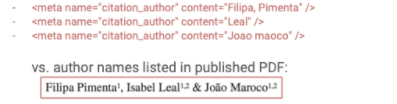
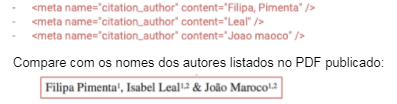
Alt text + image text translation.

Changed region(s): [[0.0302, 0.5481, 0.9673, 0.7212]]

diff --git a/google-scholar/pt/index.md b/google-scholar/pt/index.md
@@ -18,7 +18,7 @@ O Google Acadêmico é um conhecido motor de busca acadêmico que vasculha a int
 
 Não é necessário registrar seu periódico no Google Acadêmico. O Google Acadêmico eventualmente o encontrará e vasculhará automaticamente o site. Se você perceber que seu periódico não está sendo exibido no Google Acadêmico, pode ser que hajam alguns problemas que precisam ser resolvidos, confira abaixo os [problemas comuns de indexação do OJS e as correções sugeridas](#solução-de-problemas-para-gestores-e-editores-de-periódicos).
 
-![Google scholar search results](./assets/google-scholar-guide-search-results.png)
+![Resultados de busca do Google Acadêmico](./assets/google-scholar-guide-search-results.png)
 
 O Google Acadêmico depende de duas informações-chave para realizar a indexação:
 
@@ -79,7 +79,7 @@ A metatag da publicação deve coincidir com a data de publicação formal da ed
 
 ![Data de citação da fonte HTML](./assets/google-scholar-guide-citation-date.png)
 
-![A journal article with the publication year of 2019 circled](./assets/google-scholar-guide-date-galley.png)
+![Um artigo de periódico com o ano de publicação, 2019, circulado](./assets/google-scholar-guide-date-galley.png)
 
 ![Uma página de jornal OJS com a data de publicação circulada na página](./assets/google-scholar-guide-volume-issue.png)
 
@@ -125,7 +125,7 @@ Exemplo de lista de autores em script / idioma proveniente da instituição de o
 
 O idioma do resumo deve corresponder ao idioma das metatags, tal como a metatag do título. Usar o inglês como idioma padrão para metatags, independentemente do idioma do artigo, também causará problemas de indexação. Isso também resulta em citações perdidas, porque os artigos que citam outro artigo provavelmente usarão o idioma do texto na íntegra para a citação. Citações perdidas significam que os artigos não serão classificados como deveriam nos resultados de pesquisa do Google Acadêmico - e ambos resultam em autores insatisfeitos.
 
-![Fonte HTML com título, data e idioma destacados](./assets/google-scholar-guide-content-date.png)
+![Fonte HTML com título, data e idioma realçados](./assets/google-scholar-guide-content-date.png)
 
 A solução para ambos problemas é usar o idioma do texto completo que está no PDF como um guia para o idioma a ser usado ao inserir os metadados nos campos do OJS.
 
@@ -141,7 +141,7 @@ Erros de formatação comuns podem incluir nome / sobrenome incorreto / inconsis
 
 Abaixo, nas metatags vermelhas, você pode observar alguns exemplos de erros comuns relacionados aos nomes de autores, que suspenderão a indexação no Google Acadêmico. Na primeira metatag, note que o nome e o sobrenome do autor foram invertidos. No segundo, apenas parte do nome do autor foi inserido. E no último exemplo, no sobrenome do autor, além do uso de letra minúscula, houve um erro de digitação (falta a letra "r").
 
-![Author names in HTML and on the journal page](./assets/google-scholar-guide-author-names.png)
+![Nomes de autores no código HTML e na página do periódico](./assets/google-scholar-guide-author-names.png)
 
 Para solucionar e corrigir esses erros, você deve comparar os nomes nas metatags citation_author com o modo como aparecem no PDF. Se houver discrepâncias, altere as metatags nos metadados do artigo em seu periódico para corresponder ao PDF. Lembre-se de observar a formatação e o uso de letras maiúsculas.
 
@@ -177,7 +177,7 @@ Quando a versão https de um site replica erros devido a um certificado inválid
 
 Para testar, abra um artigo em vários navegadores diferentes (Chrome, Safari, etc). Se você detectar avisos de que a conexão não é privada, entre em contato com seu provedor de certificado SSL para corrigir tal erro. Se possível, peça-lhes para configurar renovações automatizadas para evitar expirações futuras.
 
-![SSL warnings in a web browser](./assets/google-scholar-guide-ssl.png)
+![Avisos SSL em um navegador da Internet](./assets/google-scholar-guide-ssl.png)
 
 ### Tempo de inatividade do site
 
